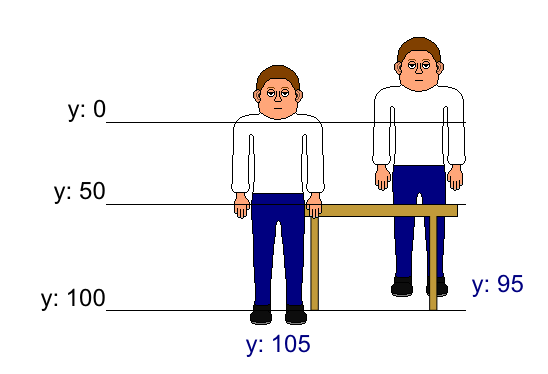
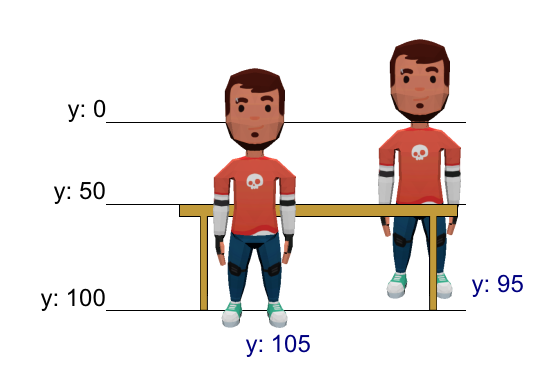
feat: Updated angle diagrams (#49)
* feat: Updated angle diagrams

* Update getting_started/step_by_step/2_create_player_character.rst

* Apply suggestions from code review

Changed region(s): [[0.3102, 0.1765, 0.5894, 0.8824], [0.6825, 0.0882, 0.8686, 0.7941], [0.5584, 0.3529, 0.5894, 0.4118]]

diff --git a/getting_started/step_by_step/2_create_player_character.rst b/getting_started/step_by_step/2_create_player_character.rst
@@ -99,15 +99,25 @@ To achieve this degree of freedom, Escoria needs to know which directions are
 available. It does that by defining angle ranges within a 360° circle.
 
 .. image:: img/angles_visualization.png
-   :alt: A visual representation of a circle around the character with angles
-     around it
+   :alt: A visual representation of character motion matching set animations to
+     360 degree movement
 
 The angle 0° would show the character facing away from the camera, 90° facing
 to the right, and so forth.
 
-As the possible directions aren't restricted to specific points, a range in
-the circle is defined for one side. In the visualization, the green range
-would be around 340° and is 40° wide, so it will go from 340° to 20°.
+The walkcycles only show very specific angles for the character (e.g. for a 4
+direction character there are only animations for angles 0, 90, 180 and 270
+degrees). When the player moves the character in a direction that isn't one of
+these angles, however, Escoria needs to work out which animation the developer
+would like to use. To do this, when defining a character animation, the
+developer provides the angle range that will match that animation direction.
+In this diagram, the green area shows that the developer has chosen that
+movement in the 40° angle starting from 340° (i.e.  from 340° to 20°) will
+correspond to the "up" animation.
+
+.. image:: img/angles_visualization2.png
+   :alt: The movement range matching the upward walking animation
+
 
 Our character will support walking in 8 directions, so we set up the
 ``Dir angles`` parameter like this:
@@ -118,47 +128,8 @@ Click on ``Dir Angles`` and set the size to 8. For each slot, add an
 .. image:: img/character_create_animation_dirangles.png
    :alt: Setting the Dir angles array
 
-Click on each resource and set them to the following:
-
-* 0:
-
-  * Angle Start: 340
-  * Angle Size: 40
-
-* 1:
-
-  * Angle Start: 20
-  * Angle Size: 50
-
-* 2:
-
-  * Angle Start: 70
-  * Angle Size: 40
-
-* 3:
-
-  * Angle Start: 110
-  * Angle Size: 50
-
-* 4:
-
-  * Angle Start: 160
-  * Angle Size: 40
-
-* 5:
-
-  * Angle Start: 200
-  * Angle Size: 50
-
-* 6:
-
-  * Angle Start: 250
-  * Angle Size: 40
-
-* 7:
-
-  * Angle Start: 290
-  * Angle Size: 50
+Click on each resource and set its angle start and size settings based on the
+8-direction character table below.
 
 This will define 40° ranges for the upper, left, right and back animations as
 well as 50° ranges for the diagonal directions. This setup will result in a
@@ -166,9 +137,57 @@ very smooth animation.
 
 .. warning::
 
-   Make sure that you always define the complete 360° circle with the direction
-   angles!
+   Make sure that you always define the complete 360° circle when defining a
+   character's direction angles!
 
+2-direction Character
+
++--------------+------------+-------------+------------+
+| Resource     | Walk       | Character   | Character  |
+| Table Entry  | Direction  | Start Angle | Angle Size |
++==============+============+=============+============+
+| Entry 1      | Up         |           0 |        180 |
++--------------+------------+-------------+------------+
+| Entry 2      | Up Right   |         180 |        180 |
++--------------+------------+-------------+------------+
+
+4-direction Character
+
++--------------+------------+-------------+------------+
+| Resource     | Walk       | Character   | Character  |
+| Table Entry  | Direction  | Start Angle | Angle Size |
++==============+============+=============+============+
+| Entry 1      | Up         |         315 |         90 |
++--------------+------------+-------------+------------+
+| Entry 2      | Right      |          45 |         90 |
++--------------+------------+-------------+------------+
+| Entry 3      | Down       |         135 |         90 |
++--------------+------------+-------------+------------+
+| Entry 4      | Left       |         225 |         90 |
++--------------+------------+-------------+------------+
+
+8-direction Character
+
++--------------+------------+-------------+------------+
+| Resource     | Walk       | Character   | Character  |
+| Table Entry  | Direction  | Start Angle | Angle Size |
++==============+============+=============+============+
+| Entry 1      | Up         |         340 |         40 |
++--------------+------------+-------------+------------+
+| Entry 2      | Up Right   |          20 |         50 |
++--------------+------------+-------------+------------+
+| Entry 3      | Right      |          70 |         40 |
++--------------+------------+-------------+------------+
+| Entry 4      | Down Right |         110 |         50 |
++--------------+------------+-------------+------------+
+| Entry 5      | Down       |         160 |         40 |
++--------------+------------+-------------+------------+
+| Entry 6      | Down Left  |         200 |         50 |
++--------------+------------+-------------+------------+
+| Entry 7      | Left       |         250 |         40 |
++--------------+------------+-------------+------------+
+| Entry 8      | Up Left    |         290 |         50 |
++--------------+------------+-------------+------------+
 
 Now that we have defined where we want Escoria to play character animations,
 we just need to connect the individual animations with the direction angles.
